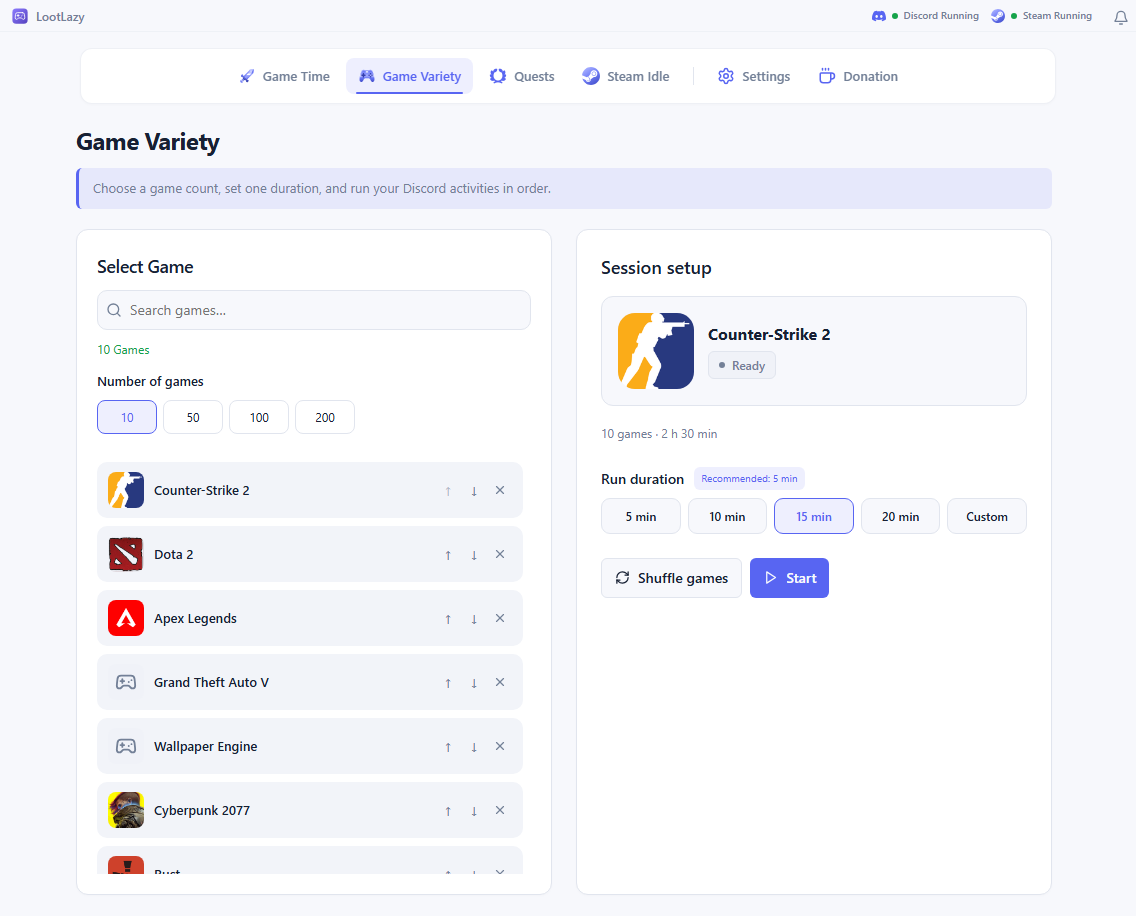
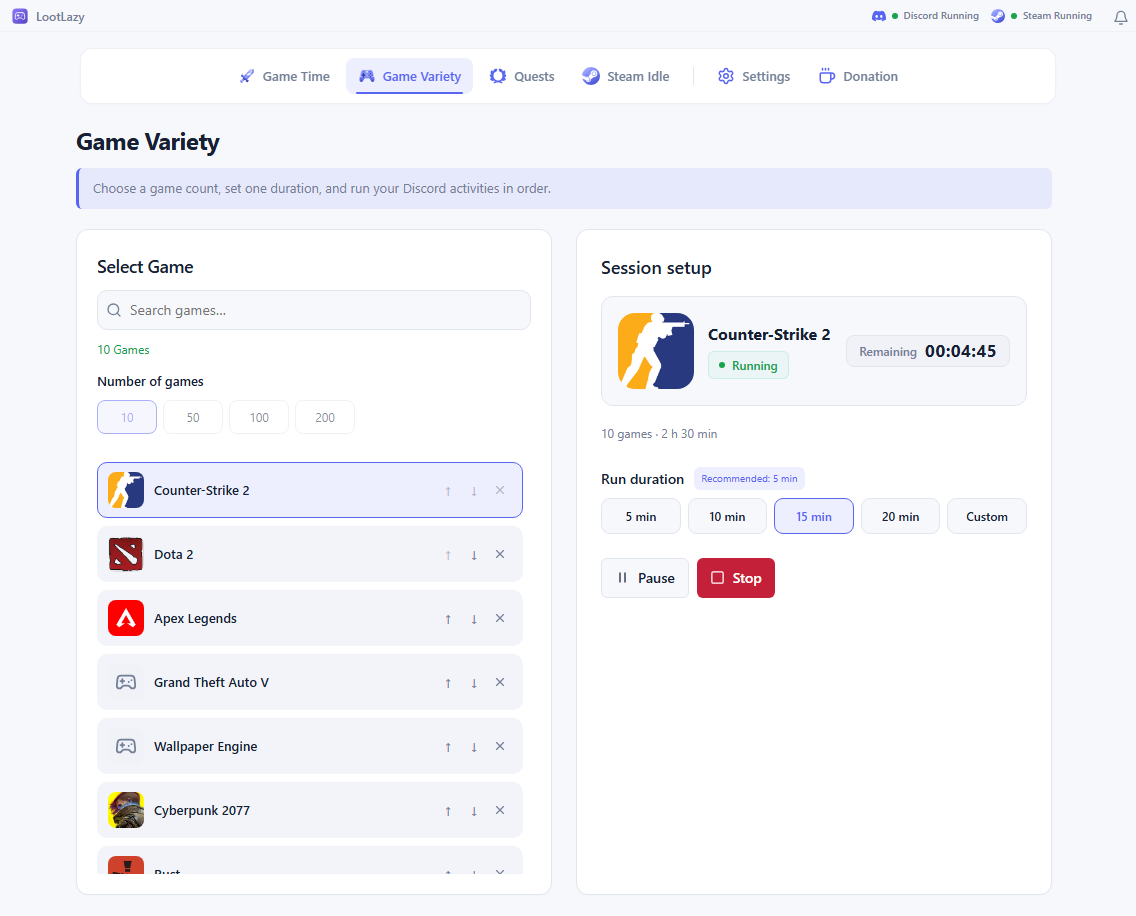
Preserve notification history with Mark as read and refresh the gallery

Changed region(s): [[0.5238, 0.6114, 0.7394, 0.6725], [0.7702, 0.3668, 0.8935, 0.3974], [0.647, 0.3974, 0.6778, 0.4279]]

diff --git a/tools/verify-rotations-ui.js b/tools/verify-rotations-ui.js
@@ -90,6 +90,6 @@ let server,browser;
  assert.equal(await page.locator('#steam-library-mode-view').isVisible(),true);
  assert.equal(await page.locator('#steam-active-mode-view').isVisible(),false);
 
- await page.evaluate(()=>{setLanguage('en');for(let i=0;i<35;i++)window.lootlazyNotifications.add('Session fixture '+i,'success',{kind:'session',target:'steam'});window.lootlazyNotifications.add('<img src=x onerror=alert(1)>','success',{kind:'session',target:'steam'});toast(t('games_current'),'success');toast(t('updates_current'),'success');toast(t('catalog_error'),'error');});await page.click('#notifications-toggle');assert.equal(await page.locator('#notifications-list .notification-item').count(),5);assert.equal(await page.locator('#notifications-list img').count(),0);assert.equal(await page.locator('#notifications-count').isVisible(),true);assert.equal(await page.locator('#notifications-clear').evaluate(e=>e.getBoundingClientRect().height<=24),true);await page.locator('#notifications-list .notification-item').first().click();assert.equal(await page.locator('#view-notifications').isVisible(),true);assert.equal(await page.locator('#notifications-page-list .notification-item').count(),30);assert.equal(await page.locator('#notification-detail-message').innerText(),'<img src=x onerror=alert(1)>');assert.equal(await page.locator('#notification-detail img').count(),0);assert.equal(await page.locator('#notifications-page-list').innerText().then(text=>text.includes('Session fixture')),true);await page.click('#notification-open-section');assert.equal(await page.locator('#view-steam').isVisible(),true);await page.reload();await page.waitForFunction(()=>state.games.length===50);await page.click('#notifications-toggle');await page.click('#notifications-view-all');assert.equal(await page.locator('#notifications-page-list .notification-item').count(),30);assert.equal(await page.locator('#notifications-page-list').innerText().then(text=>text.includes('Could not refresh')||text.includes("You're up to date")),false);await page.locator('#notifications-page-list .notification-item').nth(1).click();assert.equal(await page.locator('#notification-detail').isVisible(),true);await page.screenshot({path:path.join(root,'.internal/notifications-page.png')});await page.click('#notifications-page-clear');assert.equal(await page.locator('#notifications-page-list .notification-item').count(),0);assert.equal(await page.locator('#notification-detail').isVisible(),false);assert.equal(await page.locator('#notifications-count').isVisible(),false);await page.click('[data-tab=simulator]');await page.click('[data-sim-mode=custom]');await page.locator('#custom-exe-input').focus();assert.equal(await page.locator('#custom-exe-input').evaluate(e=>getComputedStyle(e).outlineStyle),'none');assert.equal(await page.locator('#custom-exe-input').evaluate(e=>getComputedStyle(e).boxShadow),'none');
+ await page.evaluate(()=>{setLanguage('en');for(let i=0;i<35;i++)window.lootlazyNotifications.add('Session fixture '+i,'success',{kind:'session',target:'steam'});window.lootlazyNotifications.add('<img src=x onerror=alert(1)>','success',{kind:'session',target:'steam'});toast(t('games_current'),'success');toast(t('updates_current'),'success');toast(t('catalog_error'),'error');});await page.click('#notifications-toggle');assert.equal(await page.locator('#notifications-list .notification-item').count(),5);assert.equal(await page.locator('#notifications-list img').count(),0);assert.equal(await page.locator('#notifications-count').isVisible(),true);assert.equal(await page.locator('#notifications-mark-read').evaluate(e=>e.getBoundingClientRect().height<=24),true);await page.locator('#notifications-list .notification-item').first().click();assert.equal(await page.locator('#view-notifications').isVisible(),true);assert.equal(await page.locator('#notifications-page-list .notification-item').count(),30);assert.equal(await page.locator('#notification-detail-message').innerText(),'<img src=x onerror=alert(1)>');assert.equal(await page.locator('#notification-detail img').count(),0);assert.equal(await page.locator('#notifications-page-list').innerText().then(text=>text.includes('Session fixture')),true);assert.equal(await page.locator('#notification-open-section').count(),0);await page.click('#notifications-page-mark-read');assert.equal(await page.locator('#notifications-page-list .notification-item').count(),30);assert.equal(await page.locator('#notification-detail').isVisible(),true);assert.equal(await page.locator('#notifications-count').isVisible(),false);assert.equal(await page.locator('#notifications-page-mark-read').isDisabled(),true);await page.click('[data-tab=steam]');await page.reload();await page.waitForFunction(()=>state.games.length===50);await page.click('#notifications-toggle');await page.click('#notifications-view-all');assert.equal(await page.locator('#notifications-page-list .notification-item').count(),30);assert.equal(await page.locator('#notifications-page-list').innerText().then(text=>text.includes('Could not refresh')||text.includes("You're up to date")),false);await page.locator('#notifications-page-list .notification-item').nth(1).click();assert.equal(await page.locator('#notification-detail').isVisible(),true);await page.screenshot({path:path.join(root,'.internal/notifications-page.png')});assert.equal(await page.locator('#notifications-page-list .notification-item').count(),30);assert.equal(await page.locator('#notification-detail').isVisible(),true);assert.equal(await page.locator('#notifications-page-mark-read').isDisabled(),true);assert.equal(await page.locator('#notifications-count').isVisible(),false);await page.click('[data-tab=simulator]');await page.click('[data-sim-mode=custom]');await page.locator('#custom-exe-input').focus();assert.equal(await page.locator('#custom-exe-input').evaluate(e=>getComputedStyle(e).outlineStyle),'none');assert.equal(await page.locator('#custom-exe-input').evaluate(e=>getComputedStyle(e).boxShadow),'none');
  assert.deepEqual(errors,[]);fs.writeFileSync(path.join(root,'.internal/ROTATION_UI_CHECK.json'),JSON.stringify({testedAt:new Date().toISOString(),type:'isolated renderer with API fixtures',errors,checks:['navigation order','empty Variety setup until count selection','explicit duration save and cancellation','four fixed count presets','clean UI cues','reduced-motion support','automatic stable count resizing','200-game lineup','one shared duration without card inputs','Discord-only artwork','no idle badges','Steam Running/Not running and official download buttons','Arabic RTL','matching Steam presets and custom time','single current Variety row after tab navigation','bounded persistent notification history and safe text rendering','parallel Steam starts','stopping one preserves another','800px and 1100px layout'],steamAccountActivityTested:false},null,2));console.log('New-page interface checks passed; no live Steam account activity generated.');
  }finally{if(browser)await browser.close();if(server)await new Promise(resolve=>server.close(resolve));}})().catch(error=>{console.error(error);process.exitCode=1;});

diff --git a/public/index.html b/public/index.html
@@ -8,7 +8,7 @@
 <header class="titlebar">
  <div class="brand"><img src="assets/lootlazy-logo.svg" width="25" height="25" alt=""><span>LootLazy</span></div>
  <div class="navbar-status-wrap"><div id="discord-indicator" class="discord-indicator disconnected" data-i18n-title="discord_status_title"><img class="platform-status-icon" src="assets/nav/discord.svg" width="14" height="14" alt=""><span class="discord-dot"></span><span id="discord-status-text">Discord</span></div><div id="steam-indicator" class="discord-indicator disconnected" data-i18n-title="steam_status_title"><img class="platform-status-icon" src="assets/nav/steam.svg" width="14" height="14" alt=""><span class="discord-dot"></span><span id="steam-status-text">Steam</span></div></div>
- <div class="notification-wrap"><button id="notifications-toggle" class="icon-button" type="button" aria-expanded="false" aria-controls="notifications-panel" data-i18n-aria-label="notifications_title"><span id="notifications-icon"></span><span id="notifications-count" class="notification-count" hidden></span></button><section id="notifications-panel" class="notifications-panel" hidden aria-labelledby="notifications-heading"><div class="panel-heading"><h2 id="notifications-heading" data-i18n="notifications_title">Notifications</h2><button id="notifications-clear" class="notification-clear" data-i18n="notifications_clear">Clear</button></div><div id="notifications-list"></div><button id="notifications-view-all" class="notification-view-all" type="button" data-i18n="notifications_view_all">View all notifications</button></section></div><div class="window-tools">
+ <div class="notification-wrap"><button id="notifications-toggle" class="icon-button" type="button" aria-expanded="false" aria-controls="notifications-panel" data-i18n-aria-label="notifications_title"><span id="notifications-icon"></span><span id="notifications-count" class="notification-count" hidden></span></button><section id="notifications-panel" class="notifications-panel" hidden aria-labelledby="notifications-heading"><div class="panel-heading"><h2 id="notifications-heading" data-i18n="notifications_title">Notifications</h2><button id="notifications-mark-read" class="notification-read-action" data-i18n="notifications_mark_read">Mark as read</button></div><div id="notifications-list"></div><button id="notifications-view-all" class="notification-view-all" type="button" data-i18n="notifications_view_all">View all notifications</button></section></div><div class="window-tools">
 
 
 
@@ -158,7 +158,7 @@
  </section>
 </section>
 <section id="view-support" class="view-panel support-view"><section class="panel support-hero"><h2 data-i18n="support_headline"></h2><p data-i18n="support_body"></p><p data-i18n="support_optional"></p><div class="support-options"><section class="support-option crypto-support"><img class="support-symbol-image" src="assets/crypto/bitcoin.svg" width="32" height="32" alt="" aria-hidden="true"><h3 data-i18n="support_crypto">Crypto support</h3><p data-i18n="support_crypto_desc"></p><div class="crypto-selectors"><label><span data-i18n="crypto_currency">Currency</span><select id="crypto-currency"><option value="USDT">USDT</option><option value="ETH">ETH</option><option value="BNB">BNB</option></select></label><label><span data-i18n="crypto_network">Network</span><select id="crypto-network"></select></label></div><div class="crypto-choice"><img id="crypto-currency-icon" src="assets/crypto/tether.svg" width="22" height="22" alt=""><strong id="crypto-choice-label"></strong></div><label class="wallet-address-label" data-i18n="crypto_address">Donation address</label><code id="crypto-address" dir="ltr">0xcbd6fec2fb4acb31dc3dacac133ca364ccbe58d8</code><button id="crypto-copy" class="button button-primary" type="button" data-i18n="crypto_copy">Copy address</button><p id="crypto-copy-status" class="crypto-copy-status" role="status" aria-live="polite"></p><p class="crypto-network-note" data-i18n="crypto_network_note"></p></section></div><p class="support-thanks" data-i18n="support_thanks"></p></section></section>
-<section id="view-notifications" class="view-panel notifications-view"><div class="page-heading"><h1 data-i18n="notifications_title">Notifications</h1><button id="notifications-page-clear" class="notification-clear" type="button" data-i18n="notifications_clear">Clear</button></div><div class="notifications-workspace"><section class="panel"><div id="notifications-page-list"></div></section><section id="notification-detail" class="panel notification-detail" hidden><h2 id="notification-detail-title"></h2><p id="notification-detail-message"></p><time id="notification-detail-time"></time><button id="notification-open-section" class="button button-secondary" type="button" data-i18n="notification_open_section">Open section</button></section></div></section></main></div>
+<section id="view-notifications" class="view-panel notifications-view"><div class="page-heading"><h1 data-i18n="notifications_title">Notifications</h1><button id="notifications-page-mark-read" class="notification-read-action" type="button" data-i18n="notifications_mark_read">Mark as read</button></div><div class="notifications-workspace"><section class="panel"><div id="notifications-page-list"></div></section><section id="notification-detail" class="panel notification-detail" hidden><h2 id="notification-detail-title"></h2><p id="notification-detail-message"></p><time id="notification-detail-time"></time></section></div></section></main></div>
 </div>
 <dialog id="duration-dialog"><form id="duration-edit-form"><div class="dialog-heading"><h2 data-i18n="edit_duration">Edit duration</h2><button type="button" id="duration-dialog-close" class="icon-button" data-i18n-aria-label="cancel">×</button></div><p id="duration-edit-game" class="muted"></p><div class="duration-custom"><label><span data-i18n="hours">Hours</span><input id="edit-hours" type="number" min="0" max="24" required></label><span class="time-separator">:</span><label><span data-i18n="minutes">Minutes</span><input id="edit-minutes" type="number" min="0" max="59" required></label></div><div class="dialog-actions"><button type="button" id="duration-dialog-cancel" class="button button-quiet" data-i18n="cancel">Cancel</button><button type="submit" class="button button-primary" data-i18n="save_apply">Save</button></div></form></dialog>
 

diff --git a/public/js/notifications.js b/public/js/notifications.js
@@ -7,9 +7,9 @@
  function close(){document.getElementById('notifications-panel').hidden=true;document.getElementById('notifications-toggle').setAttribute('aria-expanded','false');}
  function open(id){selectedId=id||null;const event=history.find(e=>e.id===id);if(event)event.read=true;save();close();switchTab('notifications');render();document.querySelector('.app-scroll').scrollTop=0;if(event){const title=document.getElementById('notification-detail-title');title.tabIndex=-1;title.focus({preventScroll:true});}}
  function row(event){const button=document.createElement('button');button.type='button';button.className='notification-item '+event.type+(event.read?'':' unread')+(selectedId===event.id?' selected':'');button.dataset.notificationId=event.id;button.setAttribute('aria-label',event.message);const message=document.createElement('p');message.textContent=event.message;const time=document.createElement('time');time.dateTime=new Date(event.time).toISOString();time.textContent=dateText(event.time,true);button.append(message,time);button.onclick=()=>open(event.id);return button;}
- function render(){const list=document.getElementById('notifications-list');if(!list)return;for(const [id,limit] of [['notifications-list',5],['notifications-page-list',30]]){const target=document.getElementById(id);target.replaceChildren();if(!history.length){const p=document.createElement('p');p.className='muted';p.textContent=t('notifications_empty');target.appendChild(p);}for(const event of history.slice(0,limit))target.appendChild(row(event));}const count=history.filter(e=>!e.read).length,badge=document.getElementById('notifications-count');badge.hidden=!count;badge.textContent=number(count);for(const id of ['notifications-clear','notifications-page-clear'])document.getElementById(id).hidden=!history.length;const event=history.find(e=>e.id===selectedId),detail=document.getElementById('notification-detail');detail.hidden=!event;if(event){document.getElementById('notification-detail-title').textContent=t(event.kind==='update'?'notification_update_title':'notification_session_title');document.getElementById('notification-detail-message').textContent=event.message;const time=document.getElementById('notification-detail-time');time.textContent=dateText(event.time,true);time.dateTime=new Date(event.time).toISOString();document.getElementById('notification-open-section').onclick=()=>switchTab(event.target);}}
+ function render(){const list=document.getElementById('notifications-list');if(!list)return;for(const [id,limit] of [['notifications-list',5],['notifications-page-list',30]]){const target=document.getElementById(id);target.replaceChildren();if(!history.length){const p=document.createElement('p');p.className='muted';p.textContent=t('notifications_empty');target.appendChild(p);}for(const event of history.slice(0,limit))target.appendChild(row(event));}const count=history.filter(e=>!e.read).length,badge=document.getElementById('notifications-count');badge.hidden=!count;badge.textContent=number(count);for(const id of ['notifications-mark-read','notifications-page-mark-read']){const button=document.getElementById(id);button.hidden=!history.length;button.disabled=count===0;}const event=history.find(e=>e.id===selectedId),detail=document.getElementById('notification-detail');detail.hidden=!event;if(event){document.getElementById('notification-detail-title').textContent=t(event.kind==='update'?'notification_update_title':'notification_session_title');document.getElementById('notification-detail-message').textContent=event.message;const time=document.getElementById('notification-detail-time');time.textContent=dateText(event.time,true);time.dateTime=new Date(event.time).toISOString();}}
  function add(message,type='info',options={}){message=String(message).slice(0,400);if(!message||history.some(e=>e.message===message&&Date.now()-e.time<10000))return;history.unshift({id:String(Date.now())+'-'+Math.random().toString(16).slice(2,10),message,type,time:Date.now(),read:false,kind:options.kind==='update'?'update':'session',target:targets.includes(options.target)?options.target:'simulator'});history=history.slice(0,30);save();render();}
- function clear(){history=[];selectedId=null;save();render();}
+ function markRead(){history.forEach(event=>event.read=true);save();render();}
  window.lootlazyNotifications={add,render,open};
- document.addEventListener('DOMContentLoaded',()=>{setSlot('notifications-icon','bell');render();const toggle=document.getElementById('notifications-toggle'),panel=document.getElementById('notifications-panel');toggle.onclick=()=>{panel.hidden=!panel.hidden;toggle.setAttribute('aria-expanded',String(!panel.hidden));render();};document.getElementById('notifications-clear').onclick=clear;document.getElementById('notifications-page-clear').onclick=clear;document.getElementById('notifications-view-all').onclick=()=>open();document.addEventListener('click',event=>{if(!event.target.closest('.notification-wrap'))close();});document.addEventListener('keydown',event=>{if(event.key==='Escape'&&!panel.hidden){close();toggle.focus();}});});
+ document.addEventListener('DOMContentLoaded',()=>{setSlot('notifications-icon','bell');render();const toggle=document.getElementById('notifications-toggle'),panel=document.getElementById('notifications-panel');toggle.onclick=()=>{panel.hidden=!panel.hidden;toggle.setAttribute('aria-expanded',String(!panel.hidden));render();};document.getElementById('notifications-mark-read').onclick=markRead;document.getElementById('notifications-page-mark-read').onclick=markRead;document.getElementById('notifications-view-all').onclick=()=>open();document.addEventListener('click',event=>{if(!event.target.closest('.notification-wrap'))close();});document.addEventListener('keydown',event=>{if(event.key==='Escape'&&!panel.hidden){close();toggle.focus();}});});
 })();

diff --git a/public/js/i18n.js b/public/js/i18n.js
@@ -777,10 +777,12 @@ Object.assign(I18N.ar,{
   "status_connected": "متصل",
   "status_disconnected": "غير متصل"
 });
-Object.assign(I18N.en,{"tab_steam":"Steam Idle","variety_choose_count":"Choose your game count","variety_choose_hint":"Select 10, 50, 100, or 200 games to build your Discord lineup.","notifications_title":"Notifications","notifications_clear":"Clear","notifications_empty":"No notifications yet.","game_time_badge_note":"Choose a game and manage its Discord activity with a timed session or queue.","game_variety_badge_note":"Choose a game count, set one duration, and run your Discord activities in order.","custom_process":"Manual session","manual_session_hint":"Use an executable name to create a custom Discord activity when the game is not in the catalog."});
-Object.assign(I18N.ar,{"tab_steam":"Steam Idle","variety_choose_count":"اختر عدد الألعاب","variety_choose_hint":"اختر 10 أو 50 أو 100 أو 200 لعبة لتجهيز قائمة نشاط Discord.","notifications_title":"الإشعارات","notifications_clear":"مسح","notifications_empty":"لا توجد إشعارات بعد.","game_time_badge_note":"اختر لعبة وأدر نشاطها على Discord بجلسة محددة المدة أو قائمة ألعاب.","game_variety_badge_note":"اختر عدد الألعاب ومدة موحدة لتشغيل أنشطة Discord بالترتيب.","custom_process":"جلسة يدوية","manual_session_hint":"استخدم اسم ملف تنفيذي لإنشاء نشاط Discord مخصص للعبة غير موجودة في القائمة."});
-Object.assign(I18N.en,{"notifications_view_all":"View all notifications","notification_session_title":"Session completed","notification_update_title":"New update","notification_open_section":"Open section","catalog_error":"Could not refresh games. Your saved library is still available."});
-Object.assign(I18N.ar,{"notifications_view_all":"عرض جميع الإشعارات","notification_session_title":"انتهت الجلسة","notification_update_title":"تحديث جديد","notification_open_section":"فتح القسم","catalog_error":"تعذّر تحديث الألعاب. مكتبتك المحفوظة ما زالت متاحة."});
+Object.assign(I18N.en,{"tab_steam":"Steam Idle","variety_choose_count":"Choose your game count","variety_choose_hint":"Select 10, 50, 100, or 200 games to build your Discord lineup.","notifications_title":"Notifications","notifications_empty":"No notifications yet.","game_time_badge_note":"Choose a game and manage its Discord activity with a timed session or queue.","game_variety_badge_note":"Choose a game count, set one duration, and run your Discord activities in order.","custom_process":"Manual session","manual_session_hint":"Use an executable name to create a custom Discord activity when the game is not in the catalog."});
+Object.assign(I18N.ar,{"tab_steam":"Steam Idle","variety_choose_count":"اختر عدد الألعاب","variety_choose_hint":"اختر 10 أو 50 أو 100 أو 200 لعبة لتجهيز قائمة نشاط Discord.","notifications_title":"الإشعارات","notifications_empty":"لا توجد إشعارات بعد.","game_time_badge_note":"اختر لعبة وأدر نشاطها على Discord بجلسة محددة المدة أو قائمة ألعاب.","game_variety_badge_note":"اختر عدد الألعاب ومدة موحدة لتشغيل أنشطة Discord بالترتيب.","custom_process":"جلسة يدوية","manual_session_hint":"استخدم اسم ملف تنفيذي لإنشاء نشاط Discord مخصص للعبة غير موجودة في القائمة."});
+Object.assign(I18N.en,{"notifications_view_all":"View all notifications","notification_session_title":"Session completed","notification_update_title":"New update","catalog_error":"Could not refresh games. Your saved library is still available."});
+Object.assign(I18N.ar,{"notifications_view_all":"عرض جميع الإشعارات","notification_session_title":"انتهت الجلسة","notification_update_title":"تحديث جديد","catalog_error":"تعذّر تحديث الألعاب. مكتبتك المحفوظة ما زالت متاحة."});
+Object.assign(I18N.en,{notifications_mark_read:"Mark as read"});
+Object.assign(I18N.ar,{notifications_mark_read:"تحديد كمقروءة"});
 let currentLang = localStorage.getItem('lootlazy_lang') === 'ar' ? 'ar' : 'en';
 function t(key,values={}){const text=I18N[currentLang][key]||I18N.en[key]||key;return text.replace(/\{(\w+)\}/g,(match,name)=>values[name]===undefined?match:String(values[name]));}
 

diff --git a/public/css/lootlazy.css b/public/css/lootlazy.css
@@ -310,4 +310,4 @@ html[data-theme=light]{--bg:#F7F8FC;--surface:#FFFFFF;--surface-2:#F0F2F8;--line
 /* One focus border, without the additional ring around manual input. */
 #custom-exe-input:focus,#custom-exe-input:focus-visible{outline:none!important;box-shadow:none!important;border-color:var(--accent)}
 #variety-status{display:inline-flex;margin-top:5px;width:fit-content}#variety-status::before{content:'';width:6px;height:6px;border-radius:50%;background:var(--muted);flex-shrink:0}#variety-status.running::before{background:var(--green)}#variety-status.waiting::before{background:var(--accent)}
-.notification-clear{border:0;background:transparent;color:var(--muted);font-size:11px;line-height:18px;padding:2px 5px;min-height:22px;cursor:pointer;border-radius:4px}.notification-clear:hover{color:var(--accent);background:var(--selected)}.notification-clear:focus-visible{outline:1px solid var(--accent);outline-offset:2px}.notification-view-all{width:100%;border:0;border-top:1px solid var(--line);padding:10px 0 0;margin-top:10px;background:transparent;color:var(--accent);font-size:12px;cursor:pointer}.notification-item{display:block;width:100%;border:0;border-top:1px solid var(--line);background:transparent;text-align:start;color:var(--text);cursor:pointer}.notification-item:hover,.notification-item.selected{background:var(--selected)}.notifications-workspace{display:grid;grid-template-columns:minmax(0,1fr) minmax(240px,1fr);gap:20px}.notification-detail{align-self:start}.notification-detail h2{font-size:17px}.notification-detail p{margin:16px 0;line-height:1.8;overflow-wrap:anywhere}.notification-detail time{display:block;font-size:12px;color:var(--muted);margin-bottom:22px}.notification-detail[hidden]+*{display:none}@media(max-width:760px){.notifications-workspace{grid-template-columns:1fr}}
+.notification-read-action{border:0;background:transparent;color:var(--muted);font-size:11px;line-height:18px;padding:2px 5px;min-height:22px;cursor:pointer;border-radius:4px}.notification-read-action:hover{color:var(--accent);background:var(--selected)}.notification-read-action:focus-visible{outline:1px solid var(--accent);outline-offset:2px}.notification-view-all{width:100%;border:0;border-top:1px solid var(--line);padding:10px 0 0;margin-top:10px;background:transparent;color:var(--accent);font-size:12px;cursor:pointer}.notification-item{display:block;width:100%;border:0;border-top:1px solid var(--line);background:transparent;text-align:start;color:var(--text);cursor:pointer}.notification-item:hover,.notification-item.selected{background:var(--selected)}.notifications-workspace{display:grid;grid-template-columns:minmax(0,1fr) minmax(240px,1fr);gap:20px}.notification-detail{align-self:start}.notification-detail h2{font-size:17px}.notification-detail p{margin:16px 0;line-height:1.8;overflow-wrap:anywhere}.notification-detail time{display:block;font-size:12px;color:var(--muted);margin-bottom:22px}.notification-detail[hidden]+*{display:none}@media(max-width:760px){.notifications-workspace{grid-template-columns:1fr}}

diff --git a/tools/generate-screenshots.js b/tools/generate-screenshots.js
@@ -121,6 +121,7 @@ let server, browser;
         }
       };
 
+      window.lootlazyScreenshotState=store;
       window.lootlazyRequest = async (route, body) => {
         const url = new URL(route, 'http://localhost');
         const p = url.pathname;
@@ -128,7 +129,7 @@ let server, browser;
         if (p === '/api/catalog-stats') return { totalGames: games.length };
         if (p === '/api/settings') return { desktop_notifications: false, total_playtime_seconds: 0 };
         if (p === '/api/quests') return { quests, last_synced: new Date().toISOString() };
-        if (p.startsWith('/api/updates')) return { currentVersion: '3.6.11', status: 'up_to_date' };
+        if (p.startsWith('/api/updates')) return { currentVersion: '3.6.17', status: 'up_to_date' };
         if (p === '/api/status') return {
           discordConnected: true,
           steamRunning: true,
@@ -188,6 +189,8 @@ let server, browser;
       switchTab('variety');
     });
     await settle();
+    await page.evaluate(()=>{const plan=window.lootlazyScreenshotState.variety;plan.phase='running';plan.active=true;plan.remainingSeconds=285;plan.items[0].state='running';window.lootlazyRotations.update(plan,null);});
+    await settle();
     const gameVarietyPath = path.join(screenshotsDir, 'game-variety.png');
     await page.screenshot({ path: gameVarietyPath });
     console.log('Saved:', gameVarietyPath);
@@ -213,6 +216,8 @@ let server, browser;
     await page.screenshot({ path: questsPath });
     console.log('Saved:', questsPath);
 
+    await page.evaluate(()=>{window.lootlazyNotifications.add(t('session_completed',{game:'Counter-Strike 2'}),'success',{kind:'session',target:'simulator'});window.lootlazyNotifications.add(t('update_available_version',{version:'3.6.17'}),'info',{kind:'update',target:'settings'});});
+    await page.click('#notifications-toggle');await page.locator('#notifications-list .notification-item').last().click();await settle();await page.screenshot({path:path.join(screenshotsDir,'notifications.png')});
     console.log('All gallery screenshots updated successfully.');
   } finally {
     if (browser) await browser.close();

diff --git a/README.md b/README.md
@@ -29,7 +29,7 @@ If LootLazy helps you, consider leaving a star!
 - **Game Variety** — Begin with an empty setup and choose 10, 50, 100, or 200 games for Discord activity. Shuffle, search, reorder, and run the group with one duration per game. Pause and resume within the current app session; restarting the app requires a fresh game-count selection.
 - **Desktop play quests** — Browse available 15-minute quests and start directly from their cards. Accept the quest in Discord first; unfinished local sessions can be resumed.
 - **Steam Idle** — Keep owned games active for playtime and eligible Steam trading-card drops. Steam controls card eligibility and timing; LootLazy does not track remaining drops. Run several games together with separate timers, search for titles even when they aren't installed, and manage single sessions in the Library or monitor multiple concurrent games in the Active sessions tab.
-- **Notification history** — The header bell shows the latest five events and opens a full history/details page with the latest 30 session completions and automatically discovered updates stored locally. Click an entry to read its details or clear the list. Manual refresh and update-check messages stay as temporary toasts.
+- **Notification history** — The header bell shows the latest five events and opens a full history/details page with the latest 30 session completions and automatically discovered updates stored locally. Click an entry to read its details, or use Mark as read to reset the unread count without deleting history. Manual refresh and update-check messages stay as temporary toasts.
 - **Manual session** — Enter an executable name to create a custom Discord activity when the game is missing from the catalog.
 - **Two-way sync** — Start matched Discord and Steam sessions together from either page.
 - **Pick up where you left off** — Pause, resume, clear, and reorder saved queues after reopening LootLazy.
@@ -38,7 +38,7 @@ If LootLazy helps you, consider leaving a star!
 
 ## Screenshots
 
-The gallery uses the application interface with example game and quest data.
+The gallery uses the application interface with example game, quest, and notification data.
 
 | Game Time | Game Variety |
 |:---:|:---:|
@@ -47,6 +47,8 @@ The gallery uses the application interface with example game and quest data.
 | Steam Idle | Quests |
 |:---:|:---:|
 | [![Steam Idle](https://raw.githubusercontent.com/bitlukaa/LootLazy/main/docs/screenshots/idle-steam.png)](https://raw.githubusercontent.com/bitlukaa/LootLazy/main/docs/screenshots/idle-steam.png) | [![Quests](https://raw.githubusercontent.com/bitlukaa/LootLazy/main/docs/screenshots/quests.png)](https://raw.githubusercontent.com/bitlukaa/LootLazy/main/docs/screenshots/quests.png) |
+
+[![Notification history](https://raw.githubusercontent.com/bitlukaa/LootLazy/main/docs/screenshots/notifications.png)](https://raw.githubusercontent.com/bitlukaa/LootLazy/main/docs/screenshots/notifications.png)
 
 Click a screenshot to view it at full size.
 

diff --git a/docs/VALIDATION.md b/docs/VALIDATION.md
@@ -1,3 +1,7 @@
+# Validation notes for 3.6.17
+
+Frontend unit/localization and isolated renderer checks cover removing Open section, marking all retained events as read without deleting records or selected details, unread-badge reset, disabled action when all entries are read, and read-state persistence after reload. The gallery is rendered from the current interface with declared example data and includes notification details. No memory measurements were performed.
+
 # Validation notes for 3.6.16
 
 Current frontend checks cover 21 unit/localization cases and isolated renderer scenarios for the literal Running badge, notification entry navigation, safe details rendering, 30-event retention, five-entry dropdown, filtering of manual refresh/update-check toasts, Clear size, and a single custom-input focus border. Catalog refresh fixtures exercise one transient retry, validation-error rejection, and persistent-failure reporting without removing saved games. Rust application logic is unchanged from the 70-test 3.6.15 validation except version metadata. No memory benchmark was performed.
